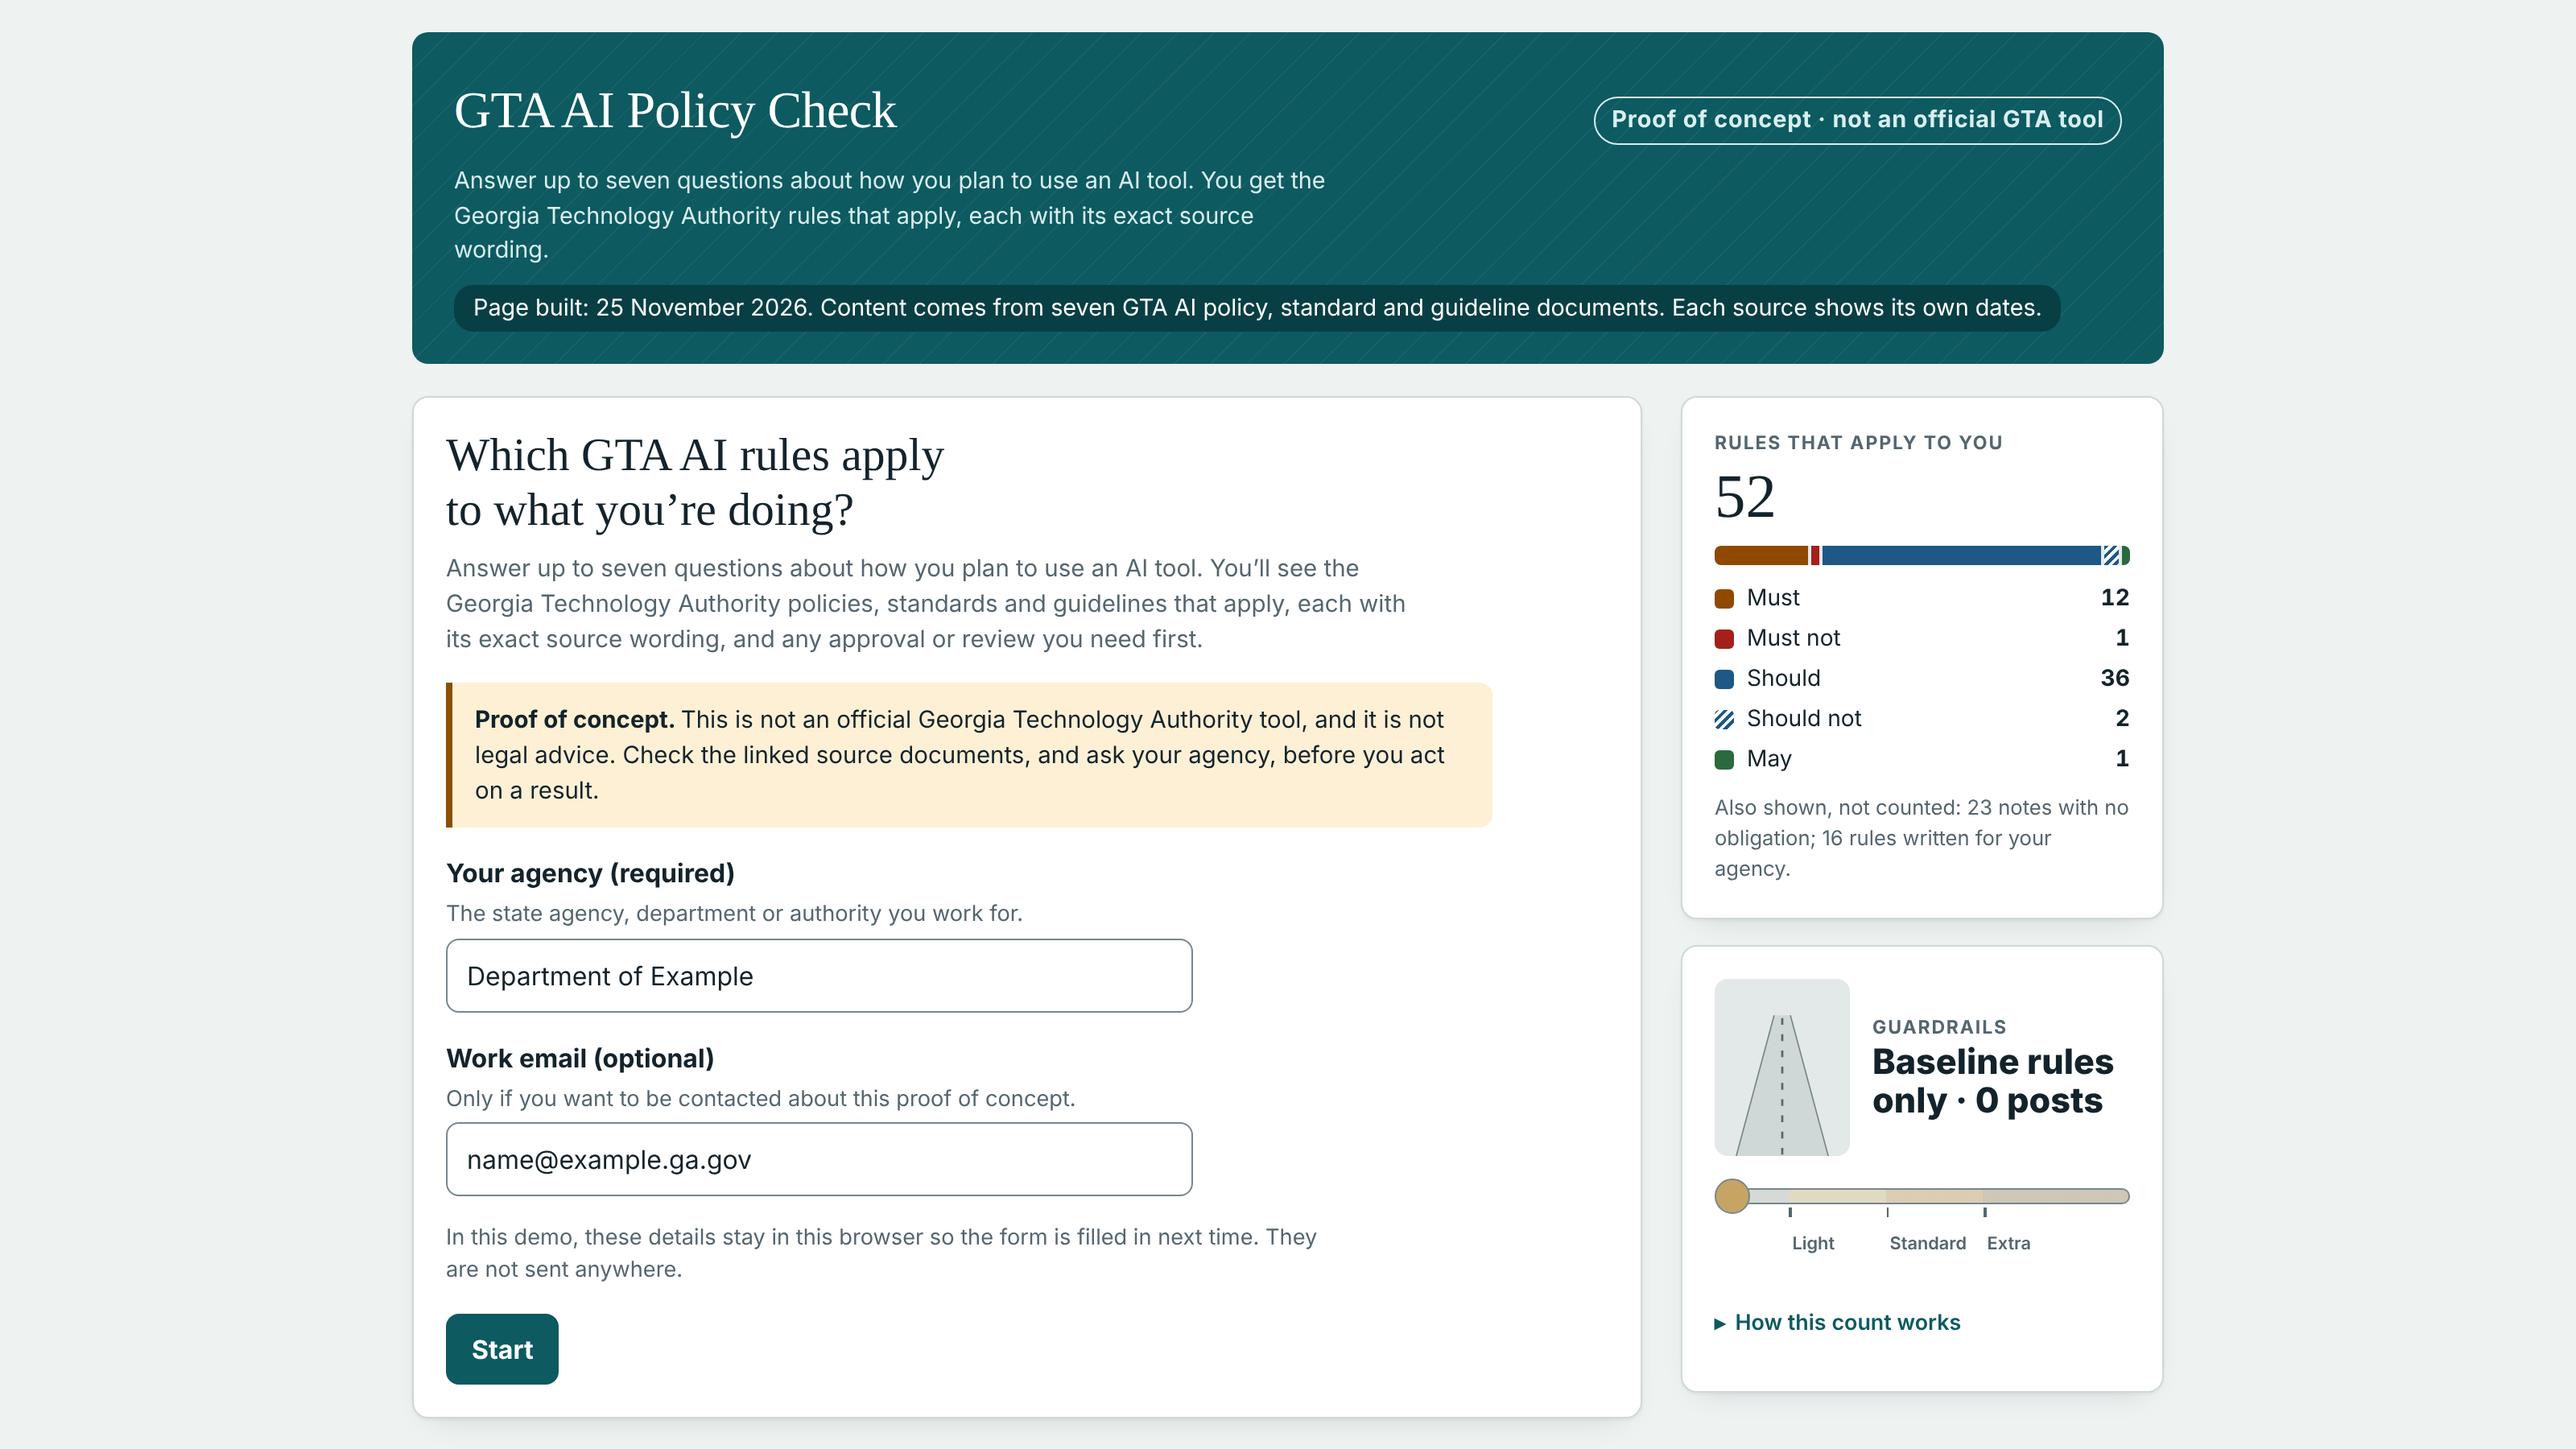
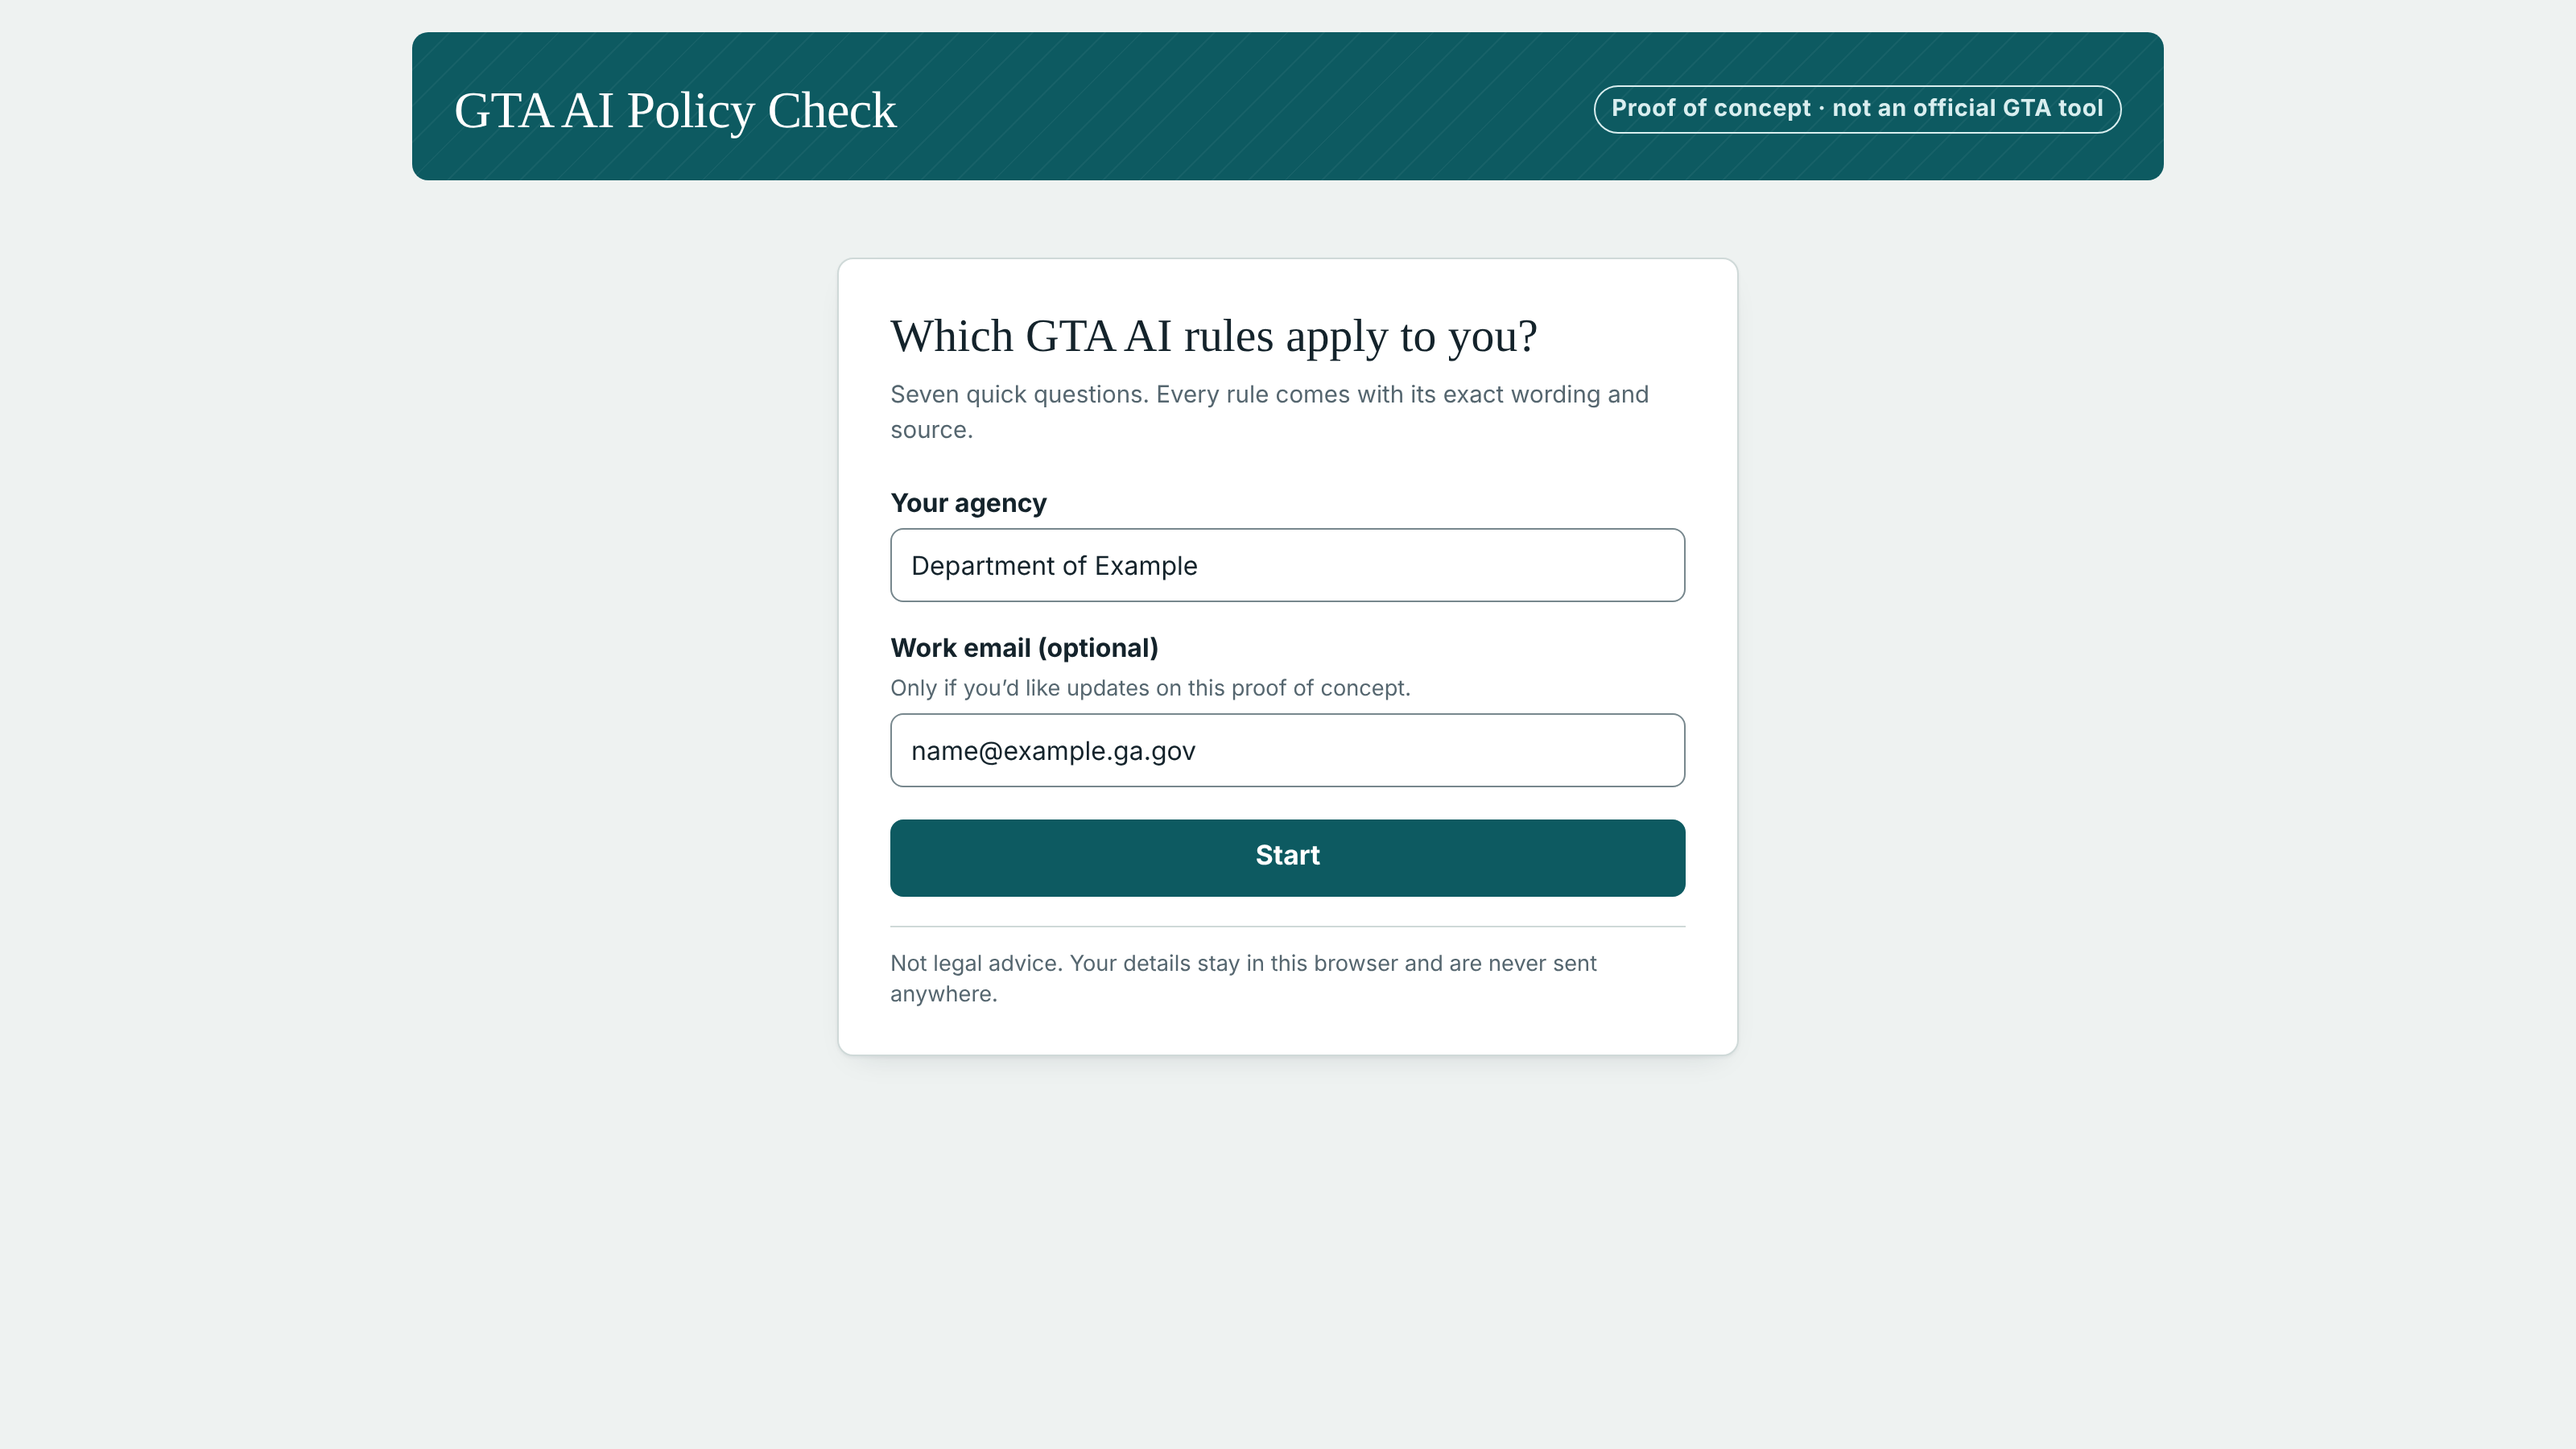
Simplify the title screen
One centred card; the side panel and the header's description appear
once the questions start. The proof-of-concept pill carries the notice;
the card keeps one privacy line.

Claude-Session: https://claude.ai/code/session_01UME3yHyTmeMZN4Qs47Nq3S

diff --git a/site/index.html b/site/index.html
@@ -281,14 +281,20 @@ details.agency .declist{margin-top:12px;box-shadow:none}
 @media print{.revbar{display:none}details.agency{box-shadow:none}}
 .more.mobans{display:none}@media (max-width:820px){.q .more.mobans{display:block}}
 /* title screen */
-.pocnote{margin:14px 0 16px;padding:12px 14px;border-left:4px solid var(--check);background:var(--check-bg);border-radius:0 8px 8px 0;max-width:70ch;font-size:.92rem}
+.pocnote{margin:18px 0 0;padding-top:14px;border-top:1px solid var(--line);color:var(--muted);font-size:.85rem;line-height:1.45}
 .field{display:flex;flex-direction:column;gap:4px;margin:0 0 16px;max-width:46ch}
 .field label{font-weight:700}
 .field input{width:100%;min-width:0;font:inherit;color:var(--ink);background:var(--surface);padding:10px 12px;min-height:44px;border:1.5px solid var(--ctl);border-radius:8px}
 .field input[aria-invalid="true"]{border-color:var(--mustnot);border-width:2px}
 .fhint{margin:0;color:var(--muted);font-size:.85rem}
 .ferr{margin:0;color:var(--mustnot);font-size:.88rem;font-weight:600}
-.privacy{margin:0 0 16px;color:var(--muted);font-size:.85rem;max-width:65ch}
+.grid.intro{grid-template-columns:minmax(0,1fr)}.grid.intro .rail{display:none}
+.card.intro{width:100%;max-width:560px;margin:28px auto 0;padding:32px 32px 26px}
+.card.intro h2{max-width:none}.card.intro .help{margin-bottom:22px}.card.intro .field{max-width:none}
+body.intro header.top>p:not(.pocpill){display:none}
+body.intro header.top{align-items:center}
+.btn.wide{width:100%;min-height:48px;font-size:1.05rem;margin-top:4px}
+.intro .nav{flex-direction:column;align-items:stretch;gap:4px;margin-top:8px}
 .pocpill{display:inline-block;margin:0;padding:3px 10px;border-radius:999px;border:1px solid var(--band-muted);color:var(--band-ink);font-size:.75rem;font-weight:700;letter-spacing:.03em}
 /* rules that apply: count + obligation mix */
 .railh{font-size:.72rem;text-transform:uppercase;letter-spacing:.08em;color:var(--muted);margin:0 0 4px;font-weight:700}
@@ -663,12 +669,12 @@ function renderResults(){
   main.appendChild(h("p",{class:"closing",text:META.closing}));
 }
 function setErr(inp,el,msg){el.textContent=msg;el.hidden=!msg;inp.setAttribute("aria-invalid",msg?"true":"false")}
-function field(id,label,hint,attrs){var inp=h("input",Object.assign({id:id,name:id,"aria-describedby":id+"-hint "+id+"-err"},attrs)),err=h("p",{id:id+"-err",class:"ferr",hidden:""});
-  return {inp:inp,err:err,el:h("div",{class:"field"},[h("label",{for:id,text:label}),h("p",{id:id+"-hint",class:"fhint",text:hint}),inp,err])}}
+function field(id,label,hint,attrs){var inp=h("input",Object.assign({id:id,name:id,"aria-describedby":(hint?id+"-hint ":"")+id+"-err"},attrs)),err=h("p",{id:id+"-err",class:"ferr",hidden:""});
+  return {inp:inp,err:err,el:h("div",{class:"field"},[h("label",{for:id,text:label}),hint?h("p",{id:id+"-hint",class:"fhint",text:hint}):null,inp,err])}}
 function renderIntro(){
   var main=$("main");main.textContent="";
-  var ag=field("agency","Your agency (required)","The state agency, department or authority you work for.",{type:"text",required:"",maxlength:"120",autocomplete:"organization"});
-  var em=field("email","Work email (optional)","Only if you want to be contacted about this proof of concept.",{type:"email",maxlength:"254",autocomplete:"email",spellcheck:"false"});
+  var ag=field("agency","Your agency",null,{type:"text",required:"",maxlength:"120",autocomplete:"organization"});
+  var em=field("email","Work email (optional)","Only if you’d like updates on this proof of concept.",{type:"email",maxlength:"254",autocomplete:"email",spellcheck:"false"});
   if(profile){ag.inp.value=profile.agency;em.inp.value=profile.email||""}
   var forget=profile?h("button",{class:"link",type:"button",on:{click:function(){forgetProfile();profile=null;ag.inp.value="";em.inp.value="";forget.remove();$("status").textContent="Your saved details were removed from this browser.";ag.inp.focus()}}},["Forget my details"]):null;
   var form=h("form",{novalidate:"","aria-labelledby":"qh",on:{submit:function(ev){ev.preventDefault();
@@ -677,14 +683,14 @@ function renderIntro(){
       var ok=!m||em.inp.checkValidity();setErr(em.inp,em.err,ok?"":"Enter a valid email address, or leave it blank.");if(!ok&&!first)first=em.inp;
       if(first){first.focus();return}
       profile={agency:a,email:m};saveProfile(profile);started=true;render()}}},
-    [ag.el,em.el,h("p",{class:"privacy",text:"In this demo, these details stay in this browser so the form is filled in next time. They are not sent anywhere."}),
-     h("div",{class:"nav"},[h("button",{class:"btn",type:"submit",id:"start"},["Start"]),forget])]);
-  main.appendChild(h("div",{class:"card q intro"},[h("h2",{text:"Which GTA AI rules apply to what you’re doing?",tabindex:"-1",id:"qh"}),
-    h("p",{class:"help",text:"Answer up to seven questions about how you plan to use an AI tool. You’ll see the Georgia Technology Authority policies, standards and guidelines that apply, each with its exact source wording, and any approval or review you need first."}),
-    h("div",{class:"pocnote",role:"note"},[h("b",{text:"Proof of concept. "}),"This is not an official Georgia Technology Authority tool, and it is not legal advice. Check the linked source documents, and ask your agency, before you act on a result."]),
-    form]));
+    [ag.el,em.el,h("div",{class:"nav"},[h("button",{class:"btn wide",type:"submit",id:"start"},["Start"]),forget])]);
+  main.appendChild(h("div",{class:"card q intro"},[h("h2",{text:"Which GTA AI rules apply to you?",tabindex:"-1",id:"qh"}),
+    h("p",{class:"help",text:"Seven quick questions. Every rule comes with its exact wording and source."}),
+    form,
+    h("p",{class:"pocnote",text:"Not legal advice. Your details stay in this browser and are never sent anywhere."})]));
 }
 function render(){
+  document.querySelector(".grid").classList.toggle("intro",!started);document.body.classList.toggle("intro",!started);
   if(!started){renderIntro();renderRail();if(render.ran){$("qh").focus({preventScroll:true});window.scrollTo(0,0)}render.ran=true;return}
   var q=current();
   if(q&&!showResults)renderQuestion(q);else{showResults=true;renderResults();stagger();}

diff --git a/tests/test_intro.py b/tests/test_intro.py
@@ -27,10 +27,12 @@ async def main():
         await pg.goto(URL); await pg.wait_for_selector("#agency")
 
         check("shows title screen first", await pg.locator(".opt").count() == 0 and await pg.locator("#qh").inner_text() != "")
-        check("proof-of-concept notice", "not an official Georgia Technology Authority tool" in await pg.locator(".pocnote").inner_text())
+        check("proof-of-concept notice", "not an official GTA tool" in await pg.locator(".pocpill").inner_text())
+        check("privacy promise", "never sent anywhere" in await pg.locator(".pocnote").inner_text())
         check("header pill", await pg.locator(".pocpill").is_visible())
+        check("side panel hidden until questions start", not await pg.locator("aside.rail").is_visible())
         check("noindex", await pg.locator('meta[name="robots"]').get_attribute("content") == "noindex, nofollow")
-        check("fields are labelled", await pg.get_by_label("Your agency (required)").count() == 1 and await pg.get_by_label("Work email (optional)").count() == 1)
+        check("fields are labelled", await pg.get_by_label("Your agency").count() == 1 and await pg.get_by_label("Work email (optional)").count() == 1)
 
         await pg.click("#start")
         focus = await pg.evaluate("document.activeElement.id")
@@ -46,6 +48,7 @@ async def main():
         saved = await pg.evaluate(f"localStorage.getItem('{KEY}')")
         check("starts with agency only; trimmed and saved locally", saved == '{"agency":"Department of Example","email":""}', saved)
         check("agency shown in Your answers", "Department of Example" in await pg.locator("#answers").inner_text())
+        check("side panel shown once started", await pg.locator("aside.rail").is_visible())
 
         await pg.reload(); await pg.wait_for_selector("#agency")
         check("pre-filled after reload", await pg.input_value("#agency") == "Department of Example")

diff --git a/completed_tasks.md b/completed_tasks.md
@@ -80,3 +80,4 @@ Diagnosis: the live site worked as built, but Phase 1 replaced the rule count wi
 - [x] Guardrail posts and stop / Check first signs unchanged
 - [x] `tests/test_obligations.py` (added to CI): count and breakdown match the data after every answer on 4 routes; all 9 suites and the accessibility audit pass
 - [x] Page screenshots 00–09 regenerated
+- [x] Title screen simplified: one centred card (heading, one-line intro, agency, optional email, full-width Start, one privacy line); side panel and header description hidden until the questions start; whole form fits on a phone screen
